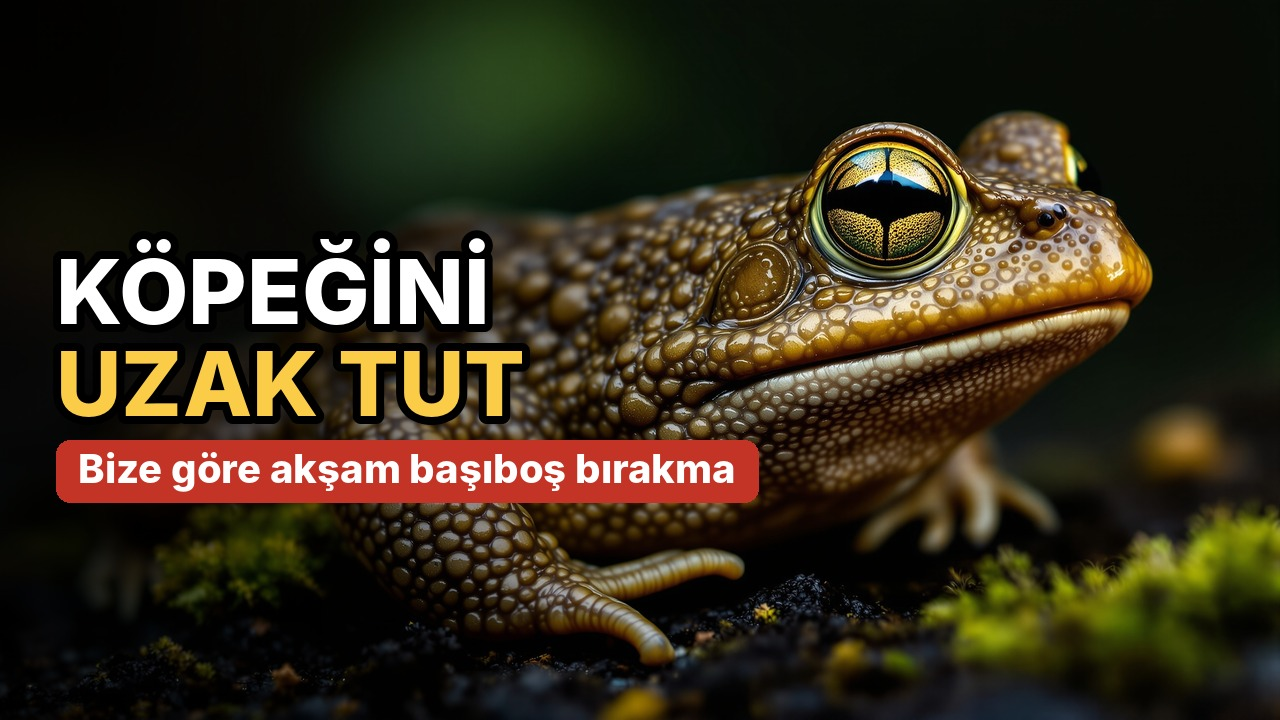
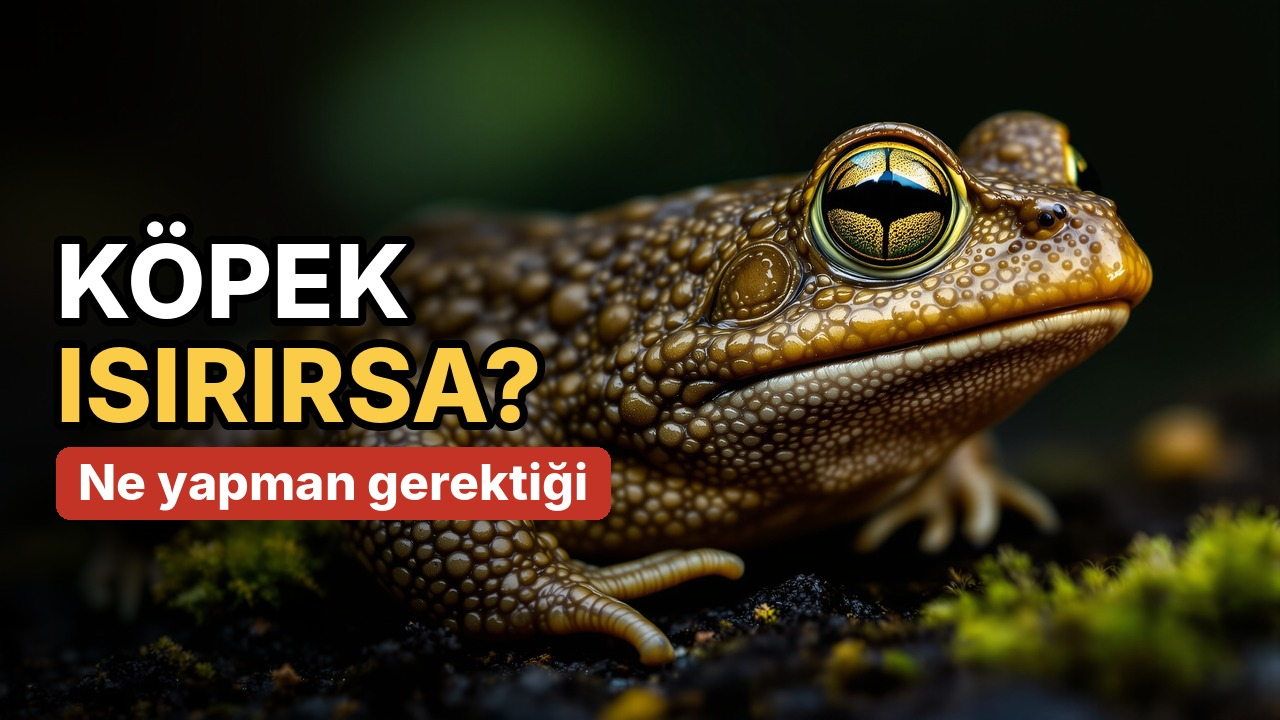
Kara kurbağası: yönetici ONAY; kapak B, Shorts tarihleri, sabit yorum, takvim
Claude-Session: https://claude.ai/code/session_01BaFTGLb3DUQPcLQVA6aDtg

Changed region(s): [[0.0312, 0.3056, 0.5938, 0.7333]]

diff --git a/hayvan-kanali/kanal/puan_tablosu.md b/hayvan-kanali/kanal/puan_tablosu.md
@@ -28,6 +28,7 @@ Her denetçi kendi ölçütlerini 0–10 arası puanlar; ağırlıklı toplam 10
 | 05-baykus | 2 | 2026-11-19 | 9.0 | 9.0 | 8.0 | 8.0 | 8.0 | 8.0 | 9.0 | 8.0 | 8.0 | **84.0** | TESLİM |
 | 06-karga | 3 | 2026-11-19 | 8.0 | 9.0 | 9.0 | 9.0 | 8.0 | 8.0 | 7.0 | 8.0 | 8.0 | **83.0** | TESLİM |
 | 07-kirlangic | 1 | 2026-11-20 | 9.0 | 8.0 | 8.0 | 8.0 | 8.0 | 8.0 | 8.0 | 8.0 | 10.0 | **83.0** | TESLİM |
+| 08-kara-kurbagasi | 1 | 2026-11-22 | 8.0 | 8.0 | 8.0 | 9.0 | 9.0 | 8.0 | 8.0 | 8.0 | 10.0 | **83.0** | TESLİM |
 
 ## Gerçek performans (yayından sonra)
 
@@ -43,27 +44,27 @@ Puanın işe yarayıp yaramadığını burada görürüz: kanca puanı yüksek v
 
 | Çalışan | Video sayısı | İlk tur ortalaması (kendi ölçütleri, 10 üzerinden) | İlk turda RET/DÜZELTME |
 |---|---|---|---|
-| senarist | 6 | 7.8 | 2 |
-| paketleme uzmanı | 6 | 7.3 | 1 |
-| Shorts uzmanı | 6 | 7.0 | 2 |
-| yapımcı | 6 | 7.3 | 1 |
-| patron | 6 | 8.2 | 0 |
+| senarist | 7 | 7.9 | 2 |
+| paketleme uzmanı | 7 | 7.6 | 1 |
+| Shorts uzmanı | 7 | 7.1 | 2 |
+| yapımcı | 7 | 7.4 | 1 |
+| patron | 7 | 8.4 | 0 |
 
 ## Ölçüt eğilimi (ilk tur → son tur, videolar tarih sırasıyla)
 
 Hedef: her ölçütte ilk turda 9. Bir ölçüt yerinde sayıyorsa dersler defterindeki "Puandan dersler" satırı sertleştirilir.
 
-| Ölçüt | 02-ev-kertenkelesi | 03-kirpi | 04-yarasa | 05-baykus | 06-karga | 07-kirlangic |
-|---|---|---|---|---|---|---|
-| Doğruluk ve kaynak | 6 → 8 | 9 | 8 | 6 → 9 | 8 | 9 |
-| Güvenlik ve çekinceler | 7 → 8 | 9 | 8 | 5 → 9 | 9 | 8 |
-| Giriş ve izleyici tutma | 6 → 8 | 8 | 8 | 7 → 8 | 9 | 8 |
-| Anlatım ve Türkçe | 8 | 8 | 8 | 8 | 9 | 8 |
-| Başlık, küçük resim, açıklama | 6 → 8 | 8 | 7 → 8 | 7 → 8 | 8 | 8 |
-| Shorts kancası | 6 → 7 | 8 | 7 → 8 | 5 → 8 | 8 | 8 |
-| Seslendirme ve ses | 8 | 8 | 8 | 8 → 9 | 7 | 8 |
-| Görsel, anatomi, kadraj | 7 → 8 | 8 | 7 → 8 | 6 → 8 | 8 | 8 |
-| Testler ve teslim | 9 | 9 | 8 → 9 | 8 | 8 | 10 |
+| Ölçüt | 02-ev-kertenkelesi | 03-kirpi | 04-yarasa | 05-baykus | 06-karga | 07-kirlangic | 08-kara-kurbagasi |
+|---|---|---|---|---|---|---|---|
+| Doğruluk ve kaynak | 6 → 8 | 9 | 8 | 6 → 9 | 8 | 9 | 8 |
+| Güvenlik ve çekinceler | 7 → 8 | 9 | 8 | 5 → 9 | 9 | 8 | 8 |
+| Giriş ve izleyici tutma | 6 → 8 | 8 | 8 | 7 → 8 | 9 | 8 | 8 |
+| Anlatım ve Türkçe | 8 | 8 | 8 | 8 | 9 | 8 | 9 |
+| Başlık, küçük resim, açıklama | 6 → 8 | 8 | 7 → 8 | 7 → 8 | 8 | 8 | 9 |
+| Shorts kancası | 6 → 7 | 8 | 7 → 8 | 5 → 8 | 8 | 8 | 8 |
+| Seslendirme ve ses | 8 | 8 | 8 | 8 → 9 | 7 | 8 | 8 |
+| Görsel, anatomi, kadraj | 7 → 8 | 8 | 7 → 8 | 6 → 8 | 8 | 8 | 8 |
+| Testler ve teslim | 9 | 9 | 8 → 9 | 8 | 8 | 10 | 10 |
 
 ## Denetçilerin kaçırdığı hatalar
 

diff --git a/hayvan-kanali/kanal/onaylar/08-kara-kurbagasi.md b/hayvan-kanali/kanal/onaylar/08-kara-kurbagasi.md
@@ -25,3 +25,9 @@
 - Son kontrol: 66/66 GEÇTİ; s1-sigil 7/7, s2-kopek 7/7.
 - Metin editörü (Tur 1): RET (fotoğraf atıfları eksik — editör eski dosyayı okudu; atıflar aynı sırada video.py ile otomatik eklendi). Puan: kanca 8, anlatim 9, baslik 6, shorts 8.
 - Metin editörü (Tur 2): ONAY. Puan: kanca 8, anlatim 9, baslik 9, shorts 8.
+- Kalite kontrol (Tur 1, 22 Kasım): RET. Kova görselinde yazı izleri, leopar benekli kurbağalar (yol/köpek/çocuk), çizim Bufotes, cümle 11 "elindeki için", kapak C başlık tekrarı, s2 ilk karede köpeğin burnu kesik. Puan: ses 7, gorsel 5, teknik 3.
+- Kalite kontrol (Tur 2, 22 Kasım): RET. Dinlenmemiş ses farkları (s1 cümle 1, uzun 040/044, s2 cümle 4), Shorts beyan satırı fotoğraf kullanımıyla uyumsuz. Puan: ses 7, gorsel 7, teknik 4.
+- Düzeltme (Tur 3): bütün fark=1 satırları large-v3 ile dinletildi (ses tanıma yazımı); s1 cümle 1 "Çünkü siğil, …" (cümle başı 'Sihil' sorunu); beyan video bazında otomatik (video.py + bekçi beyan_denetle); cümle 61'e gerçek Bufo bufo portresi (iNaturalist, Avusturya).
+- Kalite kontrol (Tur 3, 22 Kasım): ONAY. Puan: ses 8, gorsel 8, teknik 5/5 (Tur 1: 7, 5, 3). Zayıf noktalar (engel değil): yol karesi, çizgi film köpek, kapak B başlıkla az örtüşüyor.
+- Puan (22 Kasım): 83/100 → TESLİM.
+- Yönetici (22 Kasım): ONAY. Uygulandı: kapak B "KÖPEK ISIRIRSA? / Ne yapman gerektiği" (eski B kaynaksız ağırlık vaat ediyordu); Shorts 6 ve 7 Aralık 12:00'ye alındı (yarasa s3 → 9 Ara, baykuş s3 → 10 Ara); sabit yorum etkilesim.md'ye eklendi; küçük resim sırası A, tıklama oranı 48 saatte %2 altındaysa C. 8 Aralık videosu kapanışta duyurulan yılan–inek olmalı.

diff --git a/hayvan-kanali/kanal/etkilesim.md b/hayvan-kanali/kanal/etkilesim.md
@@ -7,6 +7,7 @@
 - **04 Yarasa (27 Kasım):** Senin oralarda yarasayla ilgili hangi inanışlar anlatılıyor? 🦇 Saça yapışır diye korkutulan var mı? Yaz, konuşalım 🌿 Sıradaki komşu: geceleri çatıda öten baykuş.
 - **06 Karga (4 Aralık):** Senin oralarda karga ne anlama geliyor? 🐦⬛ Sana hiç bağıran ya da seni takip eden bir karga oldu mu? Yerde yavru karga bulursan uzaktan izle, hasta ya da yaralı görünüyorsa bölgendeki Doğa Koruma ve Milli Parklar şube müdürlüğüne danış. Yaz, konuşalım 🌿 Sıradaki komşu: her yıl aynı eve dönen kırlangıç.
 - **05 Baykuş (1 Aralık):** Senin oralarda baykuşla ilgili hangi inanışlar anlatılıyor? 🦉 Gece çatıda baykuş sesi duyunca ne yapılır? Yaz, konuşalım 🌿 Sıradaki komşu: seni yıllarca unutmayan karga.
+- **08 Kara kurbağası (5 Aralık):** Siğili kurbağa değil virüs yapar 🐸 Asıl dikkat edeceğin şeyler: gözün arkasındaki bezin salgısı, salmonella ve evcil hayvanın güvenliği. Kurbağaya dokunduysan ellerini yıka; köpeğin kurbağayı ağzına aldıysa veterinere danış. Senin oralarda bu hayvana ne diyorlar? Kışın bahçende ya da bodrumunda kurbağa buldun mu? Yaz, konuşalım 🌿 Sıradaki komşu: ahırdaki ineği sağdığı söylenen yılan.
 
 ## Yorumlara cevap (her gün 5 dakika)
 - İlk 1–2 saatteki her yoruma kalp + kısa cevap. Yöresel isim yazanlara teşekkür et, isimleri not al (sonraki videolarda "sizden gelen isimler" bölümü).

diff --git a/hayvan-kanali/kanal/shorts_plani.md b/hayvan-kanali/kanal/shorts_plani.md
@@ -23,9 +23,11 @@ Güncelleme: 20 Kasım 2026. Kanal sahibi kararı: "Evet başla, her gün Shorts
 | Per 3 Ara | Karga Taşla Su Yükseltir mi? (karga s2) | **Kırlangıç** | teslim edildi 20 Kas |
 | Cum 4 Ara | Kırlangıç Kışı Nerede Geçiriyor? (kırlangıç s1) | — | teslim edildi |
 | Cmt 5 Ara | Kırlangıç Yuvasını Bozarsan Ne Olur? (kırlangıç s2) | **Kara kurbağası** (planlanacak) | Shorts teslim edildi |
-| Paz 6 Ara | yarasa s3 (YENİ) | — | — |
-| Pzt 7 Ara | baykuş s3 (YENİ) | — | — |
-| Sal 8 Ara | karga s3 (YENİ) | sıradaki video | — |
+| Paz 6 Ara | Kurbağaya Dokunursan Siğil Olur mu? (kara kurbağası s1-sigil) | — | yönetici önerisi: uzun videodan 1 gün sonra (9 Ara'dan öne alındı) |
+| Pzt 7 Ara | Köpek Kurbağayı Ağzına Alırsa Ne Yapmalı? (kara kurbağası s2-kopek) | — | 10 Ara'dan öne alındı |
+| Sal 8 Ara | karga s3 (YENİ) | **sıradaki video: yılan – ahırdaki ineği sağar mı?** (kara kurbağası kapanışı bunu duyuruyor; değişirse kapanış ve bitiş ekranı da değişir) | — |
+| Çar 9 Ara | yarasa s3 (YENİ, 6 Ara'dan kaydırıldı) | — | hazır |
+| Per 10 Ara | baykuş s3 (YENİ, 7 Ara'dan kaydırıldı) | sıradaki video | hazır |
 
 ## Yükleme adımları (her Shorts için)
 1. YouTube Studio veya YouTube uygulamasından videoyu yükle (dikey, 60 sn altı → Shorts).

diff --git a/.claude/skills/avludaki-komsular-yeni-video/references/dersler.md b/.claude/skills/avludaki-komsular-yeni-video/references/dersler.md
@@ -261,3 +261,5 @@ Her video sonrası patron, denetçilerin puan kırdığı yerleri buraya ölçü
 - (22 Kasım, kara kurbağası 2. tur) "Düzeltme tamam" demeden önce son_kontrol_duyulan.txt'deki bütün fark=1 satırlarını (yalnızca düzeltilen cümleleri değil) large-v3 ile ikinci kez dinlet ve sonucu denetçiye satır satır yaz: "oyunun/oyuğun", "Veterinerin/Veterinere" gibi farklar large-v3'te doğru çıkıyorsa ses tanıma yazımıdır; yazılmazsa denetçi açık sayar.
 - (22 Kasım) Cümle başındaki "Siğil" "Sihil" gibi okunuyor; cümle ortasındaki "siğil" temiz. Anahtar kelimeyi cümle başına koyma ("Çünkü siğil, …").
 - (22 Kasım) Shorts açıklamasında yalnızca o Shorts'ta kullanılan gerçek fotoğraflar listelenir ve beyan buna göre seçilir (video.py otomatik yapıyor; bekçi beyan_denetle ile denetliyor).
+- (22 Kasım, yönetici) Küçük resim yazısı videonun çekincesini taşır: kaynak bulunamayan iddia ("köpeğe ağır") kapağa konmaz; kapak yazısı videonun cevapladığı bir soru olsun.
+- (22 Kasım) Shorts'lar uzun videodan 1 ve 2 gün sonra planlanır; senaryo.json "yayin" alanı yazılırken takvimdeki boş günler değil bu kural esas alınır.

diff --git a/hayvan-kanali/kanal/otomatik_rapor.md b/hayvan-kanali/kanal/otomatik_rapor.md
@@ -1,7 +1,7 @@
-# Otomatik bekçi raporu – 22.11.2026 18:54
+# Otomatik bekçi raporu – 22.11.2026 18:58
 
 Boş disk: 9.5 GB
 
-### 07-kirlangic
-- UYARI: teslim edildi ya da yayında: dosyalara dokunulmadı (yalnızca kaynak erişimi denendi)
+### 08-kara-kurbagasi
+- YAPILACAK: uzun: video, kaynaklarından eski (22.11 18:46) → yeniden üretilmeli
 
